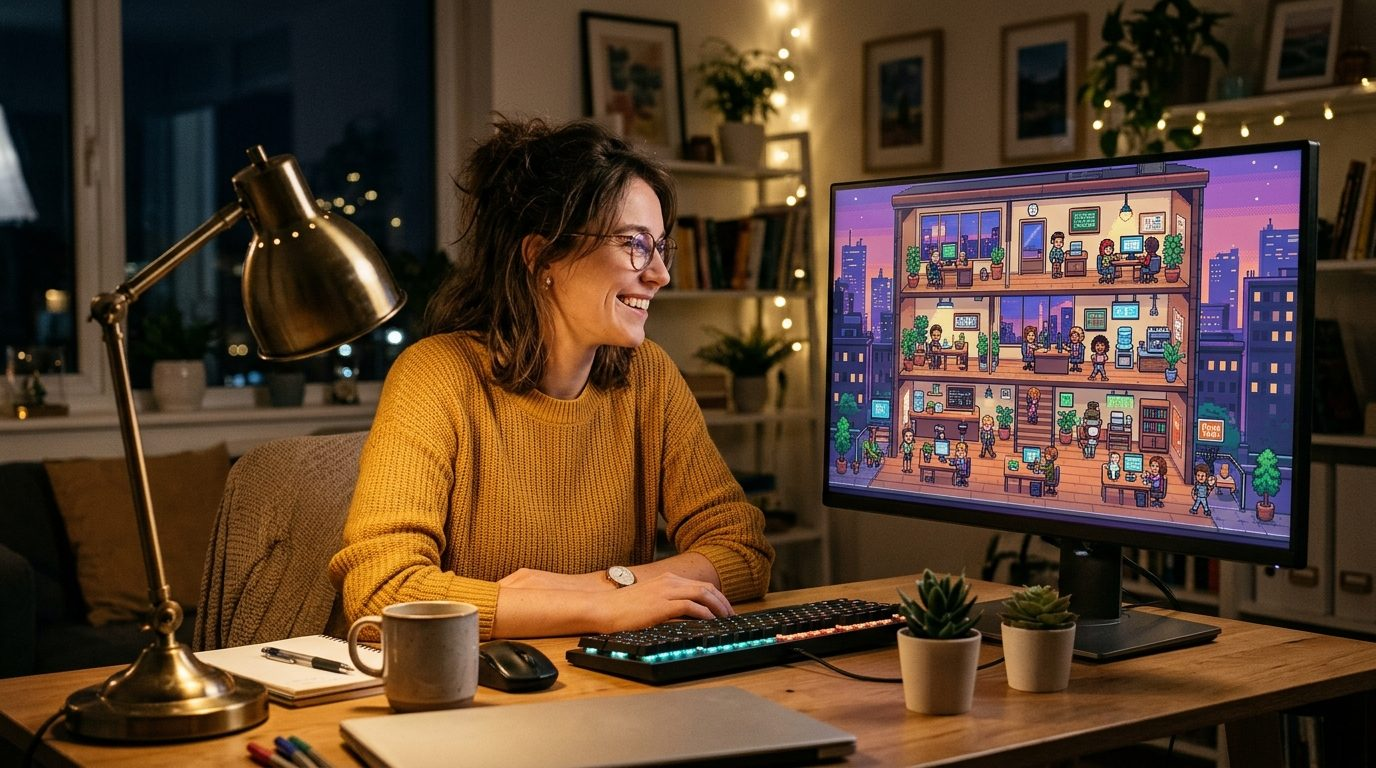
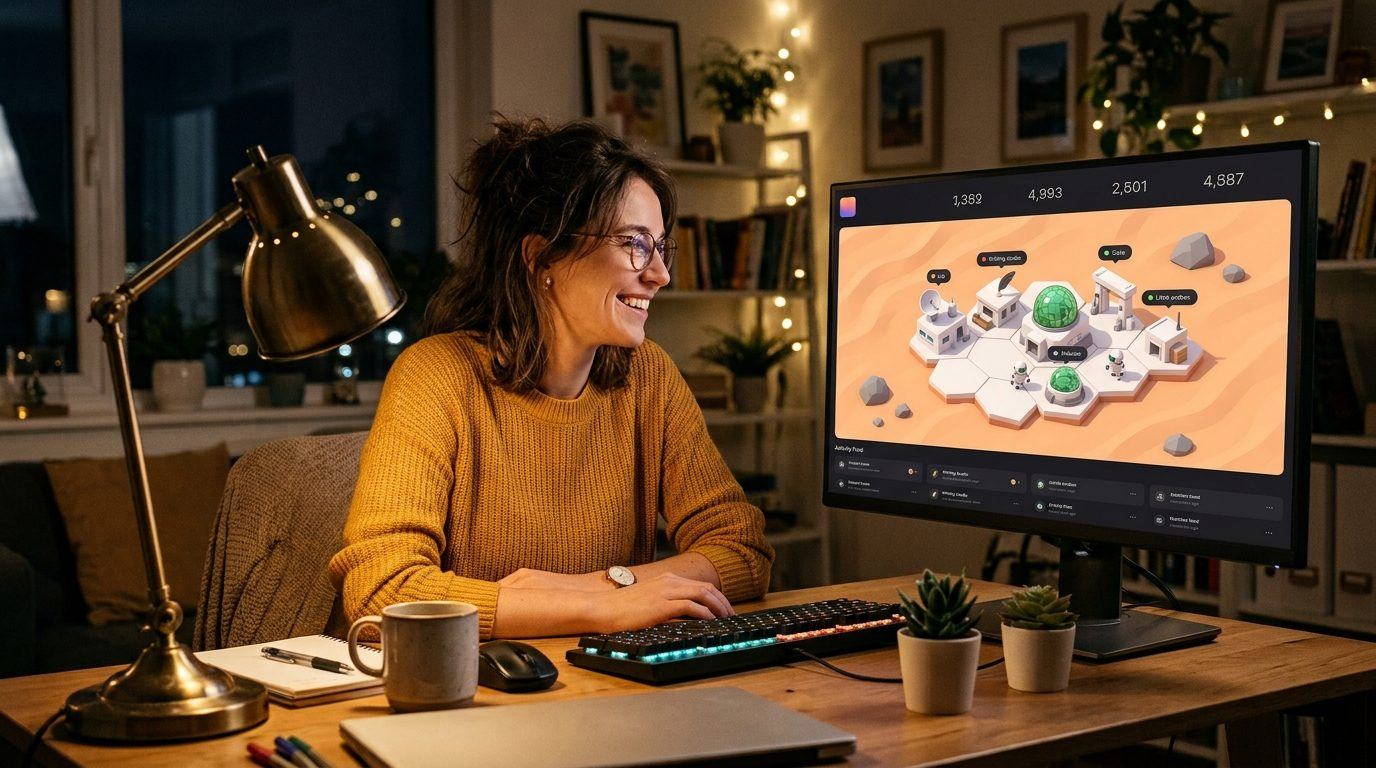
Blog images: agent office photo now shows an Agent Base style dashboard
Claude-Session: https://claude.ai/code/session_015kvqXiCrJq4jWRDBB3nPoZ

diff --git a/tools/blog-images.md b/tools/blog-images.md
@@ -37,7 +37,7 @@ When drafting a post: if its topic has a reserved photo here, use it and move it
 | blog-signal-outbound | 19 | Signal-based outbound: start where the buyer can be reached (Over-the-shoulder rep at a laptop with a company news feed, headset on the desk) |
 | blog-human-review | 20 | Human in the loop: why every AI-written email needs a reviewer (Two colleagues editing an email together on one laptop) |
 | blog-outbound-services | 21 | Outbound lead generation services: what is included and what to ask (Team of three planning a campaign, funnel drawn on a whiteboard) |
-| blog-agent-office | 23 | AI agent offices: what the visual agent trend means for sales teams (Woman smiling at a pixel-art virtual office on her monitor, evening) |
+| blog-agent-office | 23 | AI agent offices: what the visual agent trend means for sales teams (Woman smiling at her monitor showing an Agent Base style dashboard: 3D hex-tile base on orange sand, evening) |
 | blog-agent-dashboard | 24 | Can you see your AI SDR working? Why outbound agents shouldn't be a black box (Sales ops lead with arms crossed in front of an activity dashboard) |
 
 ## When nothing fits or the list is empty
